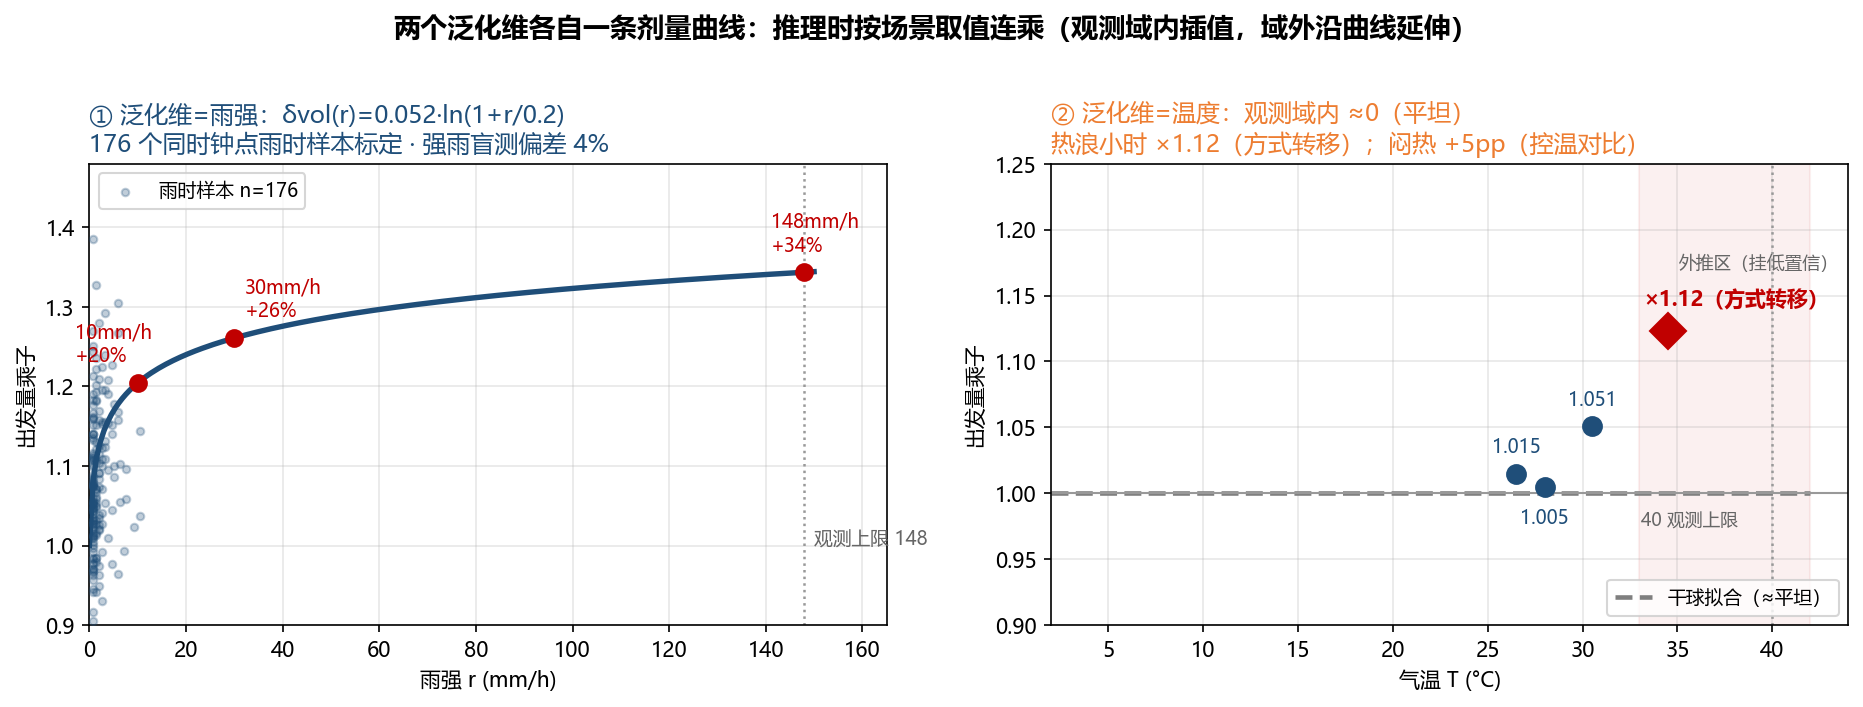
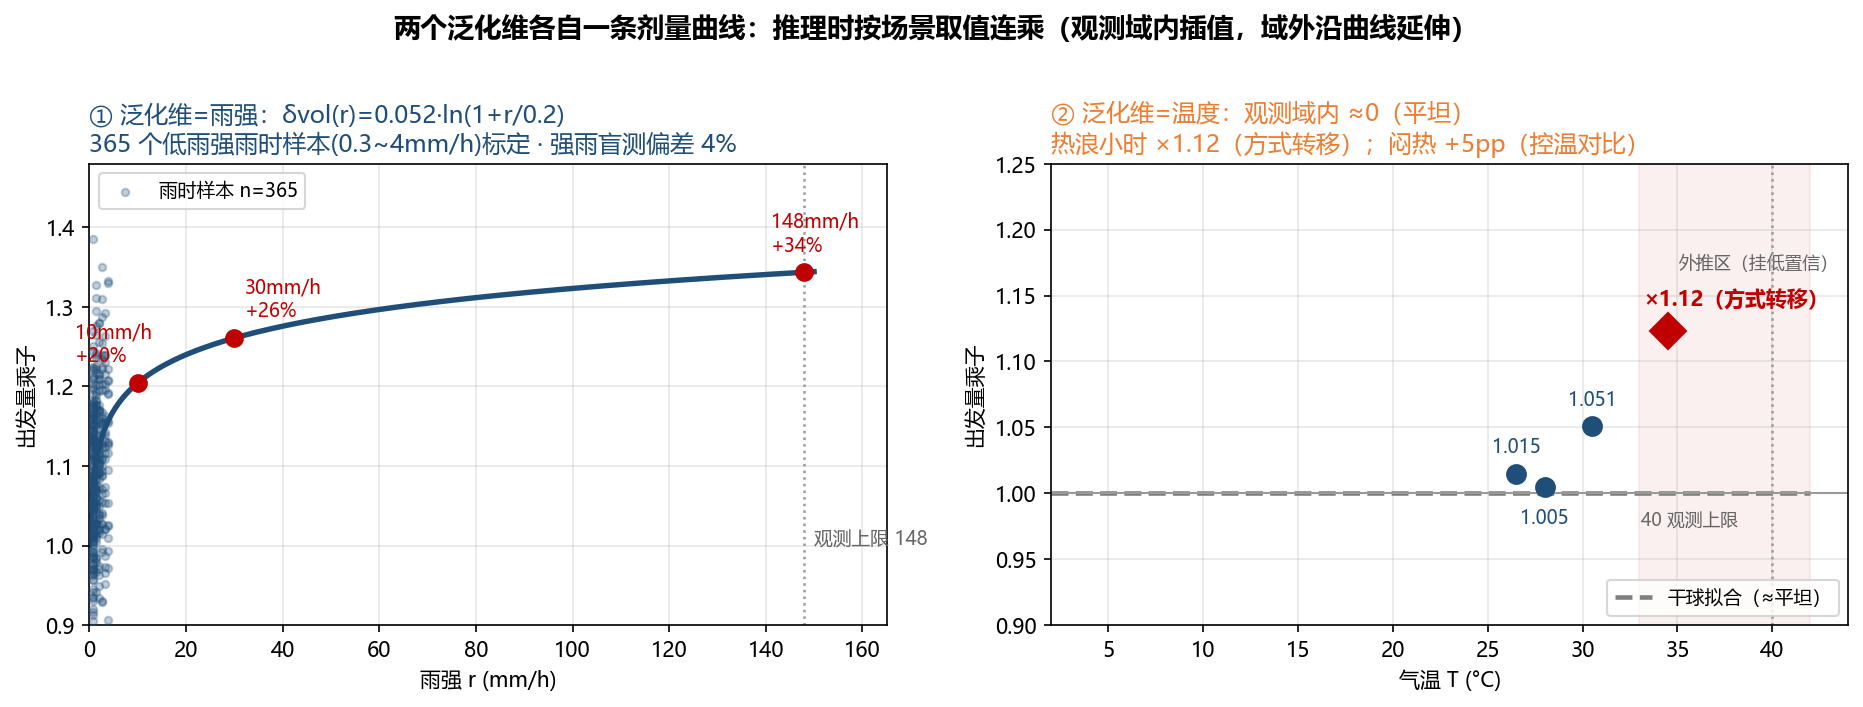
修复泛化剂量曲线样本口径：轻中雨日(176)→所有雨日0.3~4mm/h标定箱(365)，与validate_06完全一致

Changed region(s): [[0.0311, 0.3734, 0.0934, 0.8713], [0.0311, 0.1867, 0.4047, 0.2178], [0.1245, 0.2489, 0.1557, 0.2801]]

diff --git a/温度天气泛化/make_dual_dose.py b/温度天气泛化/make_dual_dose.py
@@ -9,7 +9,7 @@ import matplotlib.pyplot as plt
 plt.rcParams['font.sans-serif'] = ['Microsoft YaHei', 'SimHei']
 plt.rcParams['axes.unicode_minus'] = False
 
-# ---- 365 个雨时标定样本（轻中雨日×雨时, 与标定同口径）----
+# ---- 365 个标定样本（所有雨日的 0.3~4mm/h 雨时, 与 validate_06 同口径）----
 Agg = np.load(r'D:/AI/条件转化/.flow_agg.npz', allow_pickle=True)
 Df = np.load(r'D:/AI/条件转化/.flow_days.npz', allow_pickle=True)
 wdates = list(Agg['dates']); hour_cnt = Agg['hour_cnt'].astype(np.float64)
@@ -32,11 +32,11 @@ for yi in range(2):
             if len(vals) >= 2: lam0[yi, dw, h] = vals.mean()
 rs, ys = [], []
 for i in range(nw):
-    if kl_w[i] not in ('light', 'medium'): continue
+    if kl_w[i] == 'dry': continue                 # 所有雨日(含强雨日的低雨强时段, 与 validate_06 同口径)
     for h in range(24):
         r_h = inten_w[i, h]
         L = lam0[yidx[i], dow_w[i], h]
-        if r_h >= 0.3 and not np.isnan(L) and L > 0:
+        if 0.3 <= r_h < 4.0 and not np.isnan(L) and L > 0:   # 标定箱 0.3~4mm/h
             rs.append(r_h); ys.append(hour_cnt[i, h] / L)
 rs = np.array(rs); ys = np.array(ys)
 print(f'雨时标定样本: {len(rs)} 个')
@@ -58,7 +58,7 @@ for rr, lab, off in [(10, '+20%', (-30, 10)), (30, '+26%', (5, 10)), (148, '+34%
 ax.axvline(148, color='#999', ls=':', lw=1.2)
 ax.annotate('观测上限 148', (150, 1.0), fontsize=9, color='#666', ha='left')
 ax.set_xlabel('雨强 r (mm/h)'); ax.set_ylabel('出发量乘子')
-ax.set_title('① 泛化维=雨强：δvol(r)=0.052·ln(1+r/0.2)\n176 个同时钟点雨时样本标定 · 强雨盲测偏差 4%', fontsize=11.5, loc='left', color='#1F4E79')
+ax.set_title('① 泛化维=雨强：δvol(r)=0.052·ln(1+r/0.2)\n365 个低雨强雨时样本(0.3~4mm/h)标定 · 强雨盲测偏差 4%', fontsize=11.5, loc='left', color='#1F4E79')
 ax.grid(alpha=0.3); ax.set_ylim(0.9, 1.48); ax.set_xlim(0, 165)
 ax.legend(fontsize=9, loc='upper left')
 
